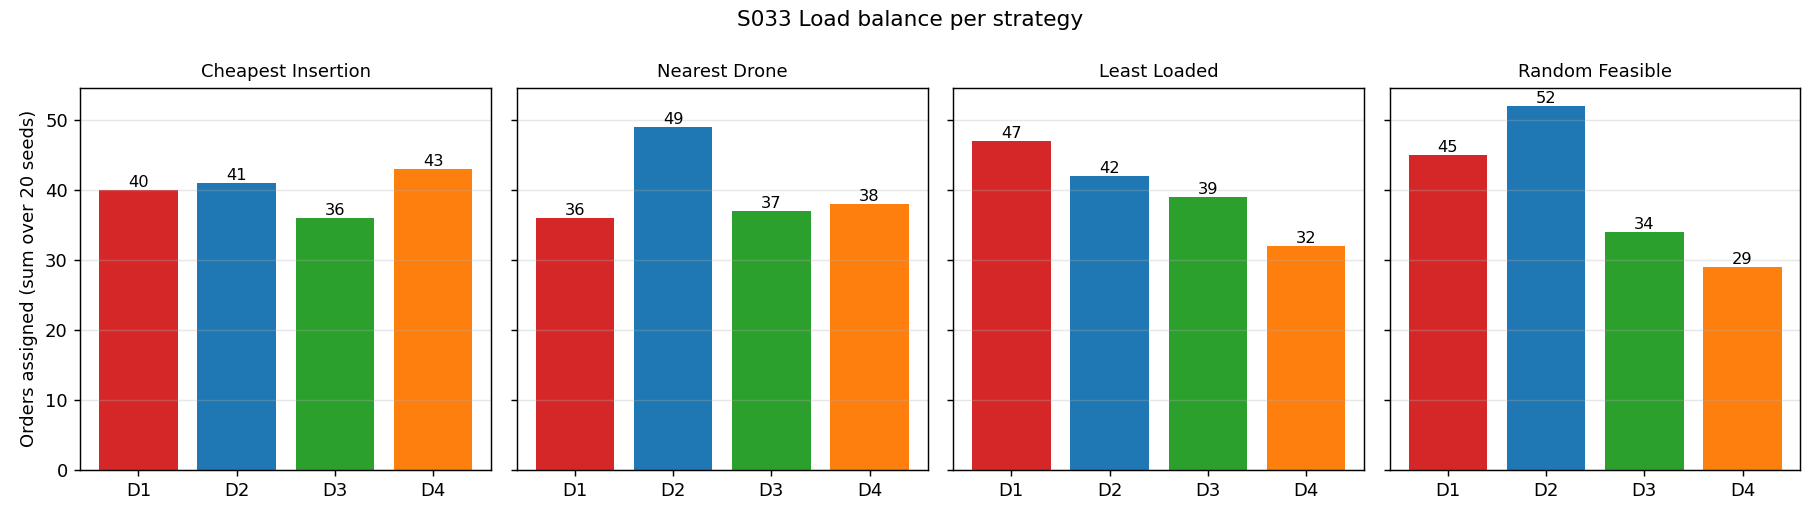
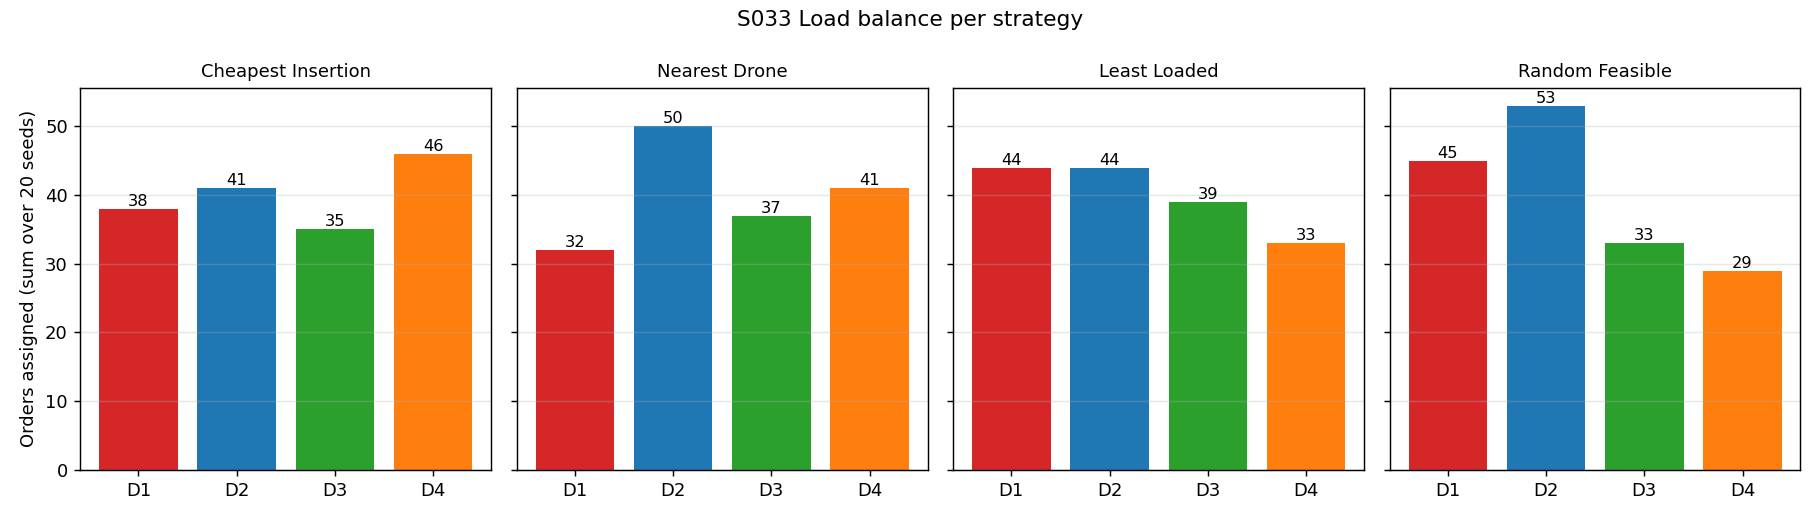
Fix S033 Online Order Insertion: enforce battery feasibility

diff --git a/src/02_logistics_delivery/s033_online_order_insertion.py b/src/02_logistics_delivery/s033_online_order_insertion.py
@@ -7,7 +7,9 @@ Each order has a deadline = arrival time + nearest-drone ETA + 30 s. The dispatc
 splices every order into one drone's remaining route, subject to battery range and
 deadline feasibility. If no drone can meet the deadline, the order is queued: it is
 appended to the drone that finishes its route earliest (served late) if that drone has
-the battery for it, otherwise it is rejected.
+the battery for it, otherwise it is rejected. Every route, including the pre-planned
+one at t = 0, satisfies remaining length <= remaining battery (asserted), so the
+battery never goes negative.
 
 Strategies compared (same fleet and orders for every strategy):
   cheapest_insertion - global minimum detour over all feasible drones / positions
@@ -118,9 +120,12 @@ class Drone:
     def remaining_length(self) -> float:
         return route_length(self.full_pts())
 
-    def best_insertion(self, q, t_now, t_deadline) -> Optional[Tuple[int, float]]:
+    def best_insertion(self, q, t_now, t_deadline,
+                       use_battery=True) -> Optional[Tuple[int, float]]:
         """Cheapest (insert_idx, delta) that is battery- and deadline-feasible, or None.
 
+        use_battery=False drops the battery test; it is used only to measure how often
+        the battery constraint changes a candidate, never to make a decision.
         Insertion never goes after the final depot return (last waypoint)."""
         pts = self.full_pts()
         n_seg = len(pts) - 1
@@ -134,7 +139,8 @@ class Drone:
                 prefix += float(np.linalg.norm(pts[idx] - pts[idx - 1]))
             delta = insertion_delta(pts[idx], q, pts[idx + 1])
             t_arr = t_now + (prefix + float(np.linalg.norm(pts[idx] - q))) / self.speed
-            if L + delta <= self.battery_rem and t_arr <= t_deadline and delta < best_delta:
+            bat_ok = (L + delta <= self.battery_rem) or not use_battery
+            if bat_ok and t_arr <= t_deadline and delta < best_delta:
                 best_idx, best_delta = idx, delta
         return None if best_idx is None else (best_idx, best_delta)
 
@@ -166,6 +172,7 @@ class Drone:
                 self.flown += budget
                 self.battery_rem -= budget
                 budget = 0.0
+        assert self.battery_rem >= -1e-6, f'drone {self.id} battery {self.battery_rem:.3f} m < 0'
 
     @property
     def route_done(self) -> bool:
@@ -176,13 +183,26 @@ class Drone:
 
 def make_instance(seed):
     """Fleet + online orders. Deadlines use the nearest drone on the *planned* routes
-    at the arrival time, so they are identical for every strategy."""
+    at the arrival time, so they are identical for every strategy.
+
+    The pre-planned route must itself be battery-feasible (L_k <= B_k^rem at t = 0):
+    12 random waypoints are ~6.5-7 km but the battery is U(0.75, 1) x 10 km, so a few
+    draws do not fit. The planner then drops trailing pre-planned waypoints (they go
+    to a later sortie) until the route plus the depot return fits. The random draws
+    are unchanged, so every other instance is identical to the untrimmed one.
+    Returns (fleet, orders, dropped) with dropped[k] = waypoints removed from drone k."""
     rng = np.random.default_rng(seed)
-    fleet = []
+    fleet, dropped = [], []
     for k in range(K):
         wps = [rand_wp(rng) for _ in range(N_WP_INIT)] + [DEPOT.copy()]
         bat = B_FULL * rng.uniform(B_INIT_LO, 1.0)
+        n_drop = 0
+        while route_length([DEPOT] + wps) > bat and len(wps) > 1:
+            wps.pop(-2)                               # last customer before the depot
+            n_drop += 1
+        assert route_length([DEPOT] + wps) <= bat, 'planned route exceeds battery'
         fleet.append((wps, bat))
+        dropped.append(n_drop)
     arrivals = np.sort(rng.uniform(T_ORDER_LO, T_ORDER_HI, N_INSERTIONS))
     orders = []
     for n, t_a in enumerate(arrivals):
@@ -190,7 +210,7 @@ def make_instance(seed):
         eta = min(np.linalg.norm(point_along([DEPOT] + wps, V_DRONE * t_a) - loc)
                   for wps, _ in fleet) / V_DRONE
         orders.append(Order(n, loc, float(t_a), float(t_a + eta + DEADLINE_SLACK)))
-    return fleet, orders
+    return fleet, orders, dropped
 
 
 def build_drones(fleet):
@@ -205,17 +225,18 @@ def build_drones(fleet):
 
 # ── Dispatch strategies ────────────────────────
 
-def _feasible(drones, order, t_now):
+def _feasible(drones, order, t_now, use_battery=True):
     out = []
     for d in drones:
-        res = d.best_insertion(order.loc, t_now, order.t_deadline)
+        res = d.best_insertion(order.loc, t_now, order.t_deadline, use_battery)
         if res is not None:
             out.append((d, res[0], res[1]))
     return out
 
 
-def dispatch(strategy, drones, order, t_now, rng):
-    feas = _feasible(drones, order, t_now)
+def _choose(strategy, feas, order, rng):
+    """Pick one (drone, idx, delta) from the candidate list; every strategy gets the
+    same battery- and deadline-feasible list."""
     if not feas:
         return None
     if strategy == 'cheapest_insertion':
@@ -229,29 +250,59 @@ def dispatch(strategy, drones, order, t_now, rng):
     return min(feas, key=key)
 
 
+def dispatch(strategy, drones, order, t_now, rng):
+    """Returns (choice or None, battery_active, battery_changed).
+
+    battery_active : the battery test removed or moved at least one drone's
+                     deadline-feasible candidate slot for this order.
+    battery_changed: the (drone, slot) decision differs from the one the same rule
+                     would take with the battery test off (None for random_feasible,
+                     whose counterfactual draw is not defined)."""
+    feas = _feasible(drones, order, t_now, True)
+    feas_nb = _feasible(drones, order, t_now, False)
+    sig = lambda fs: sorted((f[0].id, f[1]) for f in fs)
+    active = sig(feas) != sig(feas_nb)
+    choice = _choose(strategy, feas, order, rng)
+    if strategy == 'random_feasible':
+        changed = None
+    else:
+        alt = _choose(strategy, feas_nb, order, None)
+        key = lambda c: None if c is None else (c[0].id, c[1])
+        changed = key(choice) != key(alt)
+    return choice, active, changed
+
+
 def queue_fallback(drones, order):
     """Infeasible order: append before the depot return of the drone that finishes its
-    route earliest among those with enough battery. Returns (drone, idx, delta) or None."""
-    cands = []
+    route earliest among those with enough battery. Returns ((drone, idx, delta) or
+    None, battery_active, battery_changed): active = a drone was excluded for battery,
+    changed = the excluded drone is the one that would otherwise have been chosen."""
+    cands, all_cands = [], []
     for d in drones:
         if not d.route:
             continue
         idx = len(d.route) - 1                        # slot before the final depot return
         pts = d.full_pts()
         delta = insertion_delta(pts[idx], order.loc, pts[idx + 1])
+        c = (d.remaining_length() / d.speed, d.id, d, idx, delta)
+        all_cands.append(c)
         if d.remaining_length() + delta <= d.battery_rem:
-            cands.append((d.remaining_length() / d.speed, d.id, d, idx, delta))
-    if not cands:
-        return None
-    _, _, d, idx, delta = min(cands, key=lambda c: (c[0], c[1]))
-    return d, idx, delta
+            cands.append(c)
+    pick = lambda cs: min(cs, key=lambda c: (c[0], c[1])) if cs else None
+    best, best_nb = pick(cands), pick(all_cands)
+    active = len(cands) < len(all_cands)
+    changed = (best is None) != (best_nb is None) or (best is not None and best[1] != best_nb[1])
+    if best is None:
+        return None, active, changed
+    _, _, d, idx, delta = best
+    return (d, idx, delta), active, changed
 
 
 # ── Simulation ─────────────────────────────────
 
 def run_simulation(strategy='cheapest_insertion', seed=SEED0, record=False):
     """Run one strategy on one instance until all drones are back at the depot."""
-    fleet, orders = make_instance(seed)
+    fleet, orders, dropped = make_instance(seed)
     drones = build_drones(fleet)
     rng_pick = np.random.default_rng(seed + 10_000)   # random_feasible choices
     planned_len = sum(route_length(d.initial_route) for d in drones)
@@ -261,21 +312,28 @@ def run_simulation(strategy='cheapest_insertion', seed=SEED0, record=False):
     rejected = []
     deliveries = {}
     events = []                  # (t, drone id, delta, mode)
+    bat_active, bat_changed = 0, 0   # orders where the battery test was active / decisive
     t = 0.0
     times = []
     while (any(not d.route_done for d in drones) or pending) and t < T_CAP:
         while pending and pending[0].t_arrive <= t + 1e-9:
             o = pending.pop(0)
-            res = dispatch(strategy, drones, o, t, rng_pick)
+            res, active, changed = dispatch(strategy, drones, o, t, rng_pick)
             mode = 'online'
             if res is None:
-                res = queue_fallback(drones, o)
+                res, q_active, q_changed = queue_fallback(drones, o)
+                active = active or q_active
+                changed = None if changed is None else (changed or q_changed)
                 mode = 'queued'
+            bat_active += int(active)
+            bat_changed += int(bool(changed))
             if res is None:
                 rejected.append(o.oid)
                 continue
             d, idx, _ = res
             delta = d.insert_order(o.loc, idx, o.oid)
+            assert d.remaining_length() <= d.battery_rem + 1e-6, \
+                f'insertion makes drone {d.id} route exceed its battery'
             assign[o.oid] = (d.id, mode, delta)
             events.append((t, d.id, delta, mode))
         if record:
@@ -308,6 +366,9 @@ def run_simulation(strategy='cheapest_insertion', seed=SEED0, record=False):
         'detour_planned': float(sum(v[2] for v in assign.values())),
         'added_flown': flown - planned_len, 'makespan': t,
         'min_battery': min(d.battery_rem for d in drones),
+        'battery_final': [d.battery_rem for d in drones],   # = per-drone minimum
+        'bat_active': bat_active, 'bat_changed': bat_changed,
+        'n_dropped': int(sum(dropped)),
         'per_drone': per_drone, 'times': np.array(times) if record else None,
     }
 
@@ -470,7 +531,7 @@ if __name__ == '__main__':
     os.makedirs(out_dir, exist_ok=True)
 
     seed0 = {s: run_simulation(s, SEED0, record=(s == 'cheapest_insertion')) for s in STRATEGIES}
-    fleet, orders = make_instance(SEED0)
+    fleet, orders, _ = make_instance(SEED0)
     print('Seed-0 instance:')
     for k, (wps, bat) in enumerate(fleet):
         print(f'  D{k + 1}: planned route {route_length([DEPOT] + wps):7.1f} m, '
@@ -485,7 +546,7 @@ if __name__ == '__main__':
               f"online={r['n_online']} queued={r['n_queued']} rejected={r['n_rejected']}  "
               f"on_time={r['on_time']}/{N_INSERTIONS} late={r['late']}  "
               f"makespan={r['makespan']:6.1f} s  min_battery={r['min_battery']:7.1f} m  "
-              f"per_drone={r['per_drone']}")
+              f"battery_active={r['bat_active']} per_drone={r['per_drone']}")
 
     mc = {s: [run_simulation(s, SEED0 + i) for i in range(N_SEEDS)] for s in STRATEGIES}
     print(f'\n=== Mean over {N_SEEDS} seeds ===')
@@ -500,6 +561,25 @@ if __name__ == '__main__':
     for s in STRATEGIES[1:]:
         o = np.array([r['detour_planned'] for r in mc[s]])
         print(f'  cheapest detour <= {s} in {int(np.sum(ci <= o + 1e-9))}/{N_SEEDS} seeds')
+
+    print(f'\n=== Battery: lowest remaining range per drone D1..D{K} (m), every seed ===')
+    for i in range(N_SEEDS):
+        cells = [' '.join(f"{b:5.0f}" for b in mc[s][i]['battery_final']) for s in STRATEGIES]
+        print(f"  seed {SEED0 + i:2d} dropped_wp={mc[STRATEGIES[0]][i]['n_dropped']}  "
+              + '  |  '.join(cells))
+    trimmed = [SEED0 + i for i in range(N_SEEDS) if mc[STRATEGIES[0]][i]['n_dropped'] > 0]
+    print(f"  pre-planned routes trimmed to fit the battery in seeds {trimmed} "
+          f"({sum(mc[STRATEGIES[0]][i]['n_dropped'] for i in range(N_SEEDS))} waypoints dropped)")
+    n_ord = N_SEEDS * N_INSERTIONS
+    for s in STRATEGIES:
+        rs = mc[s]
+        act = sum(r['bat_active'] for r in rs)
+        seeds_act = sum(1 for r in rs if r['bat_active'] > 0)
+        chg = sum(r['bat_changed'] for r in rs)
+        chg_txt = '   n/a' if s == 'random_feasible' else f'{chg:3d}/{n_ord}'
+        print(f"  {s:20s} battery active for {act:3d}/{n_ord} orders ({seeds_act}/{N_SEEDS} seeds), "
+              f"changed the decision for {chg_txt}, rejected {sum(r['n_rejected'] for r in rs)}, "
+              f"min battery over all runs {min(r['min_battery'] for r in rs):7.1f} m")
 
     plot_route_map(seed0['cheapest_insertion'], out_dir)
     plot_battery_timeline(seed0['cheapest_insertion'], out_dir)

diff --git a/outputs/02_logistics_delivery/s033_online_order_insertion/README.md b/outputs/02_logistics_delivery/s033_online_order_insertion/README.md
@@ -6,7 +6,7 @@
 
 ## Problem Definition
 
-**Setup**: 4 drones leave the depot at t = 0 on pre-planned routes (12 random waypoints each, then back to the depot) in a 1000 × 1000 m arena. Between t = 10 s and 80 s, 8 new online orders arrive. Each order has a deadline = arrival time + nearest-drone ETA + 30 s. The dispatcher splices each order into one drone's remaining route without stopping any drone, subject to battery range and deadline feasibility. If no drone can meet the deadline, the order is **queued**: it is appended (before the final depot return) to the drone that will finish its route earliest and has enough battery, and is served late. The simulation runs until every drone is back at the depot. Four assignment strategies are compared.
+**Setup**: 4 drones leave the depot at t = 0 on pre-planned routes (12 random waypoints each, then back to the depot) in a 1000 × 1000 m arena. Every pre-planned route fits its drone's battery; if the 12 waypoints plus the return do not fit, the planner drops trailing waypoints until they do. Between t = 10 s and 80 s, 8 new online orders arrive. Each order has a deadline = arrival time + nearest-drone ETA + 30 s. The dispatcher splices each order into one drone's remaining route without stopping any drone, subject to battery range and deadline feasibility. If no drone can meet the deadline, the order is **queued**: it is appended (before the final depot return) to the drone that will finish its route earliest and has enough battery, and is served late. The simulation runs until every drone is back at the depot. Four assignment strategies are compared.
 
 **Key question**: Which online insertion strategy minimises the added flight distance while delivering the most orders on time?
 
@@ -22,7 +22,7 @@ $$\Delta_{k,i} = \|\mathbf{w}_i - \mathbf{q}\| + \|\mathbf{q} - \mathbf{w}_{i+1}
 
 ### Feasibility
 
-- Battery: $L_k + \Delta_{k,i} \le B_k^{rem}$ ($L_k$ = remaining route length; $B_k^{rem}$ is reduced only by distance actually flown)
+- Battery: $L_k + \Delta_{k,i} \le B_k^{rem}$ ($L_k$ = remaining route length; $B_k^{rem}$ is reduced only by distance actually flown). The same test applies to queued orders and to every strategy, and it also holds for the pre-planned route at t = 0 ($L_k \le B_k^{rem}$). The code asserts after every insertion that the route still fits, and after every step that $B_k^{rem} \ge 0$.
 - Deadline: $t_{now} + \big(\sum_{j<i}\|\mathbf{w}_{j+1}-\mathbf{w}_j\| + \|\mathbf{w}_i - \mathbf{q}\|\big)/v \le t_{deadline}$
 - $t_{deadline} = t_{arrive} + \min_k \|\mathbf{p}_k^{plan}(t_{arrive}) - \mathbf{q}\|/v + 30$ s, using drone positions on the *planned* routes so every strategy gets the same deadlines
 
@@ -46,7 +46,7 @@ Insertion detour $\sum \Delta$; added flown distance = total flown − total pla
 | Parameter | Value |
 |-----------|-------|
 | Fleet size K | 4 drones |
-| Pre-planned waypoints per drone | 12 (+ return to depot) |
+| Pre-planned waypoints per drone | 12 (+ return to depot); trailing ones dropped if the plan exceeds the battery (seeds 11, 12, 14, 19: 6 waypoints in total) |
 | Online orders | 8, arrival U(10, 80) s |
 | Deadline | arrival + nearest-drone ETA + 30 s |
 | Drone speed v | 8.0 m/s |
@@ -70,7 +70,7 @@ conda activate drones
 python src/02_logistics_delivery/s033_online_order_insertion.py
 ```
 
-Runtime ≈ 32 s (84 full simulations + a 150-frame GIF).
+Runtime ≈ 55 s (84 full simulations + a 150-frame GIF).
 
 ---
 
@@ -91,19 +91,32 @@ Planned routes 6472–6896 m per drone (≈ 810–860 s of flight), so the run l
 
 | Strategy | Detour (m), mean ± std | On time (of 8) | Late | Queued | Rejected | Makespan (s) |
 |----------|---:|---:|---:|---:|---:|---:|
-| Cheapest Insertion | 1838.3 ± 593.6 | 6.20 | 1.80 | 0.30 | 0.00 | 984.7 |
-| Nearest Drone | 2207.4 ± 628.3 | 5.90 | 2.10 | 0.25 | 0.00 | 997.9 |
-| Least Loaded | 3681.2 ± 1254.2 | 5.65 | 2.35 | 0.30 | 0.00 | 1037.6 |
-| Random Feasible | 3624.7 ± 893.5 | 5.20 | 2.80 | 0.25 | 0.00 | 1043.8 |
+| Cheapest Insertion | 1777.0 ± 596.0 | 6.25 | 1.75 | 0.30 | 0.00 | 969.8 |
+| Nearest Drone | 2207.4 ± 661.5 | 5.95 | 2.05 | 0.25 | 0.00 | 981.7 |
+| Least Loaded | 3717.8 ± 997.9 | 5.65 | 2.35 | 0.30 | 0.00 | 1028.8 |
+| Random Feasible | 3620.9 ± 751.3 | 5.25 | 2.75 | 0.25 | 0.00 | 1033.3 |
 
-Cheapest insertion had a detour no larger than Nearest Drone in 18/20 instances, Least Loaded in 20/20 and Random Feasible in 19/20. In every run the added flown distance equals the insertion detour exactly (battery is debited only by flying).
+Cheapest insertion had a detour no larger than Nearest Drone in 19/20 instances, Least Loaded in 20/20 and Random Feasible in 20/20. In every run the added flown distance equals the insertion detour exactly (battery is debited only by flying).
+
+### Battery constraint (20 instances × 8 orders = 160 orders per strategy)
+
+"Active" means the battery test removed a drone's deadline-feasible candidate or moved it to another slot (online dispatch), or excluded a drone from the queue fallback. "Changed the decision" means the same rule, applied to the same state with the battery test switched off, would have picked a different (drone, slot). This is a one-step counterfactual, not a re-run. It is undefined for Random Feasible.
+
+| Strategy | Battery active (orders) | Instances with ≥ 1 active | Changed the decision | Rejected | Lowest remaining range over all runs (m) |
+|----------|---:|---:|---:|---:|---:|
+| Cheapest Insertion | 31 / 160 | 10 / 20 | 5 / 160 | 0 | 30.3 |
+| Nearest Drone | 34 / 160 | 10 / 20 | 9 / 160 | 0 | 30.3 |
+| Least Loaded | 40 / 160 | 12 / 20 | 23 / 160 | 0 | 30.3 |
+| Random Feasible | 41 / 160 | 14 / 20 | n/a | 0 | 40.9 |
+
+Before this fix, in seeds 11, 12, 14 and 19 one drone's 12-waypoint plan was already longer than its initial battery (by 1324, 249, 454 and 499 m). That drone flew the plan anyway and ended at −1324 / −249 / −454 / −499 m of range under every strategy. The insertion test was correct but cannot repair a plan that is infeasible at t = 0. Trimming those plans (2 + 1 + 1 + 2 waypoints) leaves the other 16 instances, including seed 0 and all its plots, unchanged.
 
 **Key Findings**:
-- **Over many instances, cheapest insertion is best on both criteria**: 17 % less detour than Nearest Drone and about half that of Least Loaded / Random, and the most on-time deliveries (6.20 of 8).
+- **Over many instances, cheapest insertion is best on both criteria**: 19 % less detour than Nearest Drone and about half that of Least Loaded / Random, and the most on-time deliveries (6.25 of 8).
 - **On a single instance it can lose.** On seed 0, Nearest Drone needed 143 m less detour than Cheapest Insertion. Greedy one-order-at-a-time insertion is myopic: the cheapest slot for an early order can make later orders infeasible, and Cheapest Insertion had to queue 2 orders (appended at the end of a route, which is long and late) against 1 for Nearest Drone.
 - **"Feasible at insertion" does not guarantee "on time".** The deadline check covers only the new order; later insertions placed ahead of it on the same route delay it. On seed 0, Cheapest Insertion assigned 6 orders online but delivered only 5 on time (the 2 queued orders are late by construction). An extension would re-check deadlines of already-inserted orders.
-- **Least Loaded and Random** ignore geometry and pay for it in distance (≈ 3.6–3.7 km per instance) and makespan (≈ 50–60 s longer); on seed 0, Random Feasible left one drone with only 336 m of range.
-- Battery was never the binding constraint (0 rejections in any run): with 7.5–10 km of range and ≈ 6.5–6.9 km routes, the deadline is what makes orders infeasible.
+- **Least Loaded and Random** ignore geometry and pay for it in distance (≈ 3.6–3.7 km per instance) and makespan (≈ 60 s longer); on seed 0, Random Feasible left one drone with only 336 m of range.
+- **The battery does bind, but it rarely decides.** It never forced a rejection (another drone always had the range). But it was active for 31–41 of 160 orders, in 10–14 of 20 instances. It changed Cheapest Insertion's choice for 5 orders, Nearest Drone's for 9 and Least Loaded's for 23. Least Loaded is hit hardest because it picks a drone by waypoint count alone, ignoring both detour and range. The drone it prefers is therefore more often one that cannot absorb the detour. With 7.5–10 km of range and ≈ 6.5–7 km plans, drones end with as little as 30 m left.
 
 **Route Map** (cheapest insertion, seed 0; dashed = planned, solid = flown to completion; green star = on time, red = late):
 
@@ -135,6 +148,7 @@ Cheapest insertion had a detour no larger than Nearest Drone in 18/20 instances,
 | Single instance | Seed 0 for plots + 20-instance means | One instance of 8 orders is too small to rank strategies (seed 0 ranks Nearest Drone first). |
 | — | Run continues until all drones return (cap 3000 s) | The old 230 s cap stopped the run while routes still needed ≈ 800 s, so the route map showed partial paths. |
 | Insertion position may be any segment | Never after the final depot return | The route must end at the depot. |
+| Card is silent on whether the pre-planned route fits the battery | If 12 waypoints + return exceed $B_k^{rem}$, trailing pre-planned waypoints are dropped until it fits (seeds 11, 12, 14, 19) | Without this, one drone in each of those seeds flew to −249 … −1324 m of range. The card's constraint $L_k + \delta_k \le B_k^{rem}$ assumes $L_k \le B_k^{rem}$ to begin with. The 3D variant skips such seeds instead. |
 | Each order has an urgency weight $w$ | Not modelled; all orders are equally urgent | The card defines $w$ but its own dispatcher rule ($k^* = \arg\min \delta_k$ over feasible drones) never uses it, so it would not change any decision. Using it is listed as Extension 1. |
 
 ---
